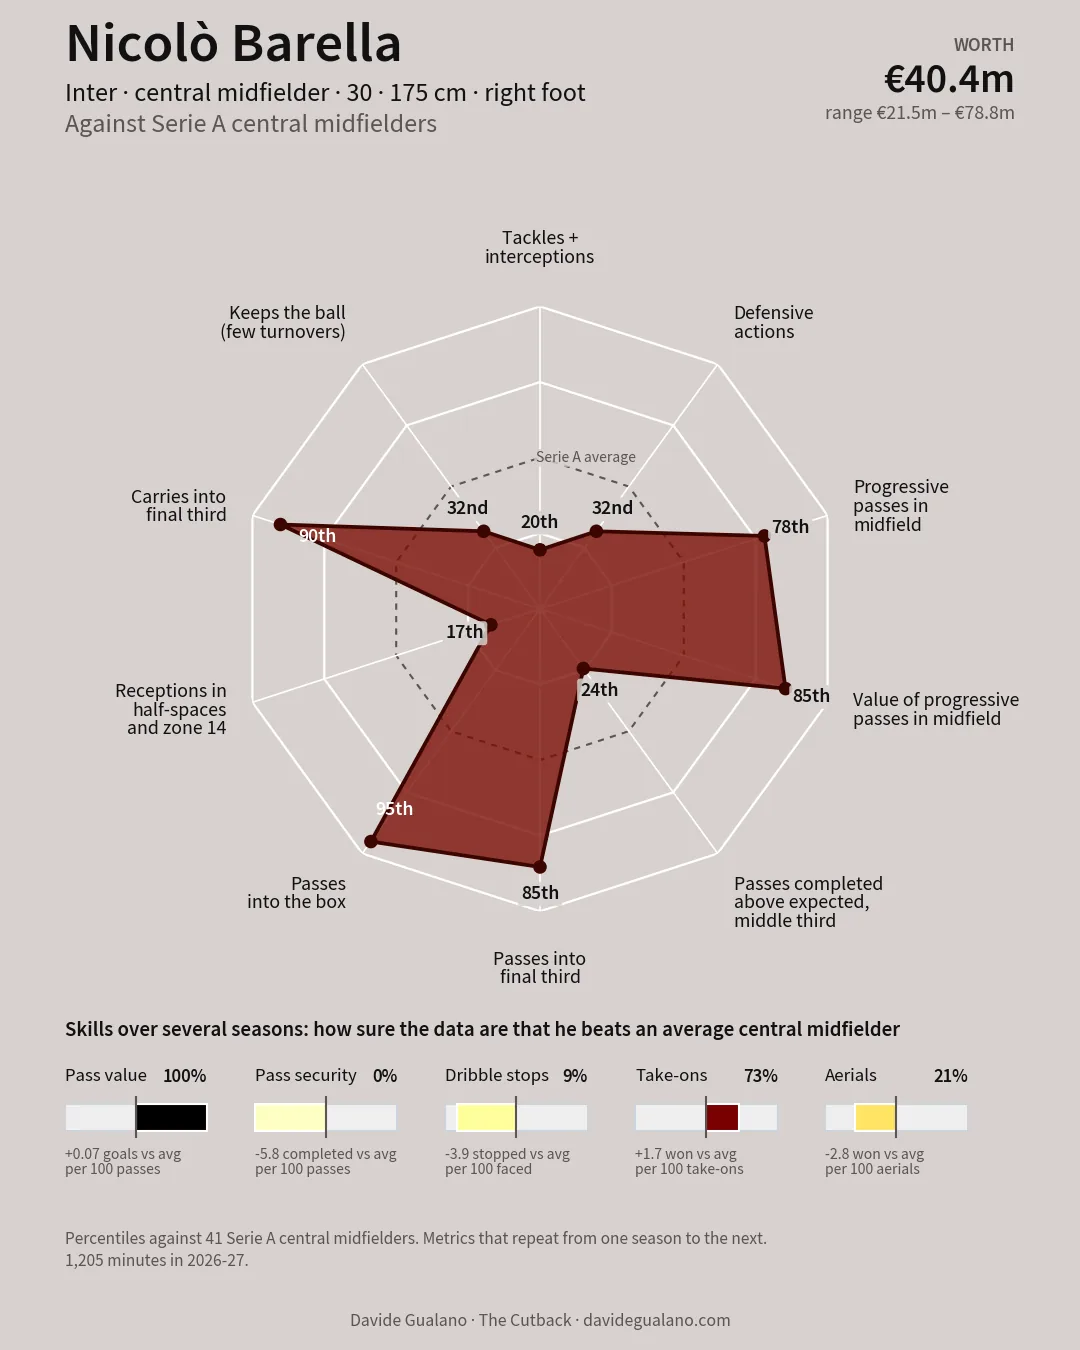
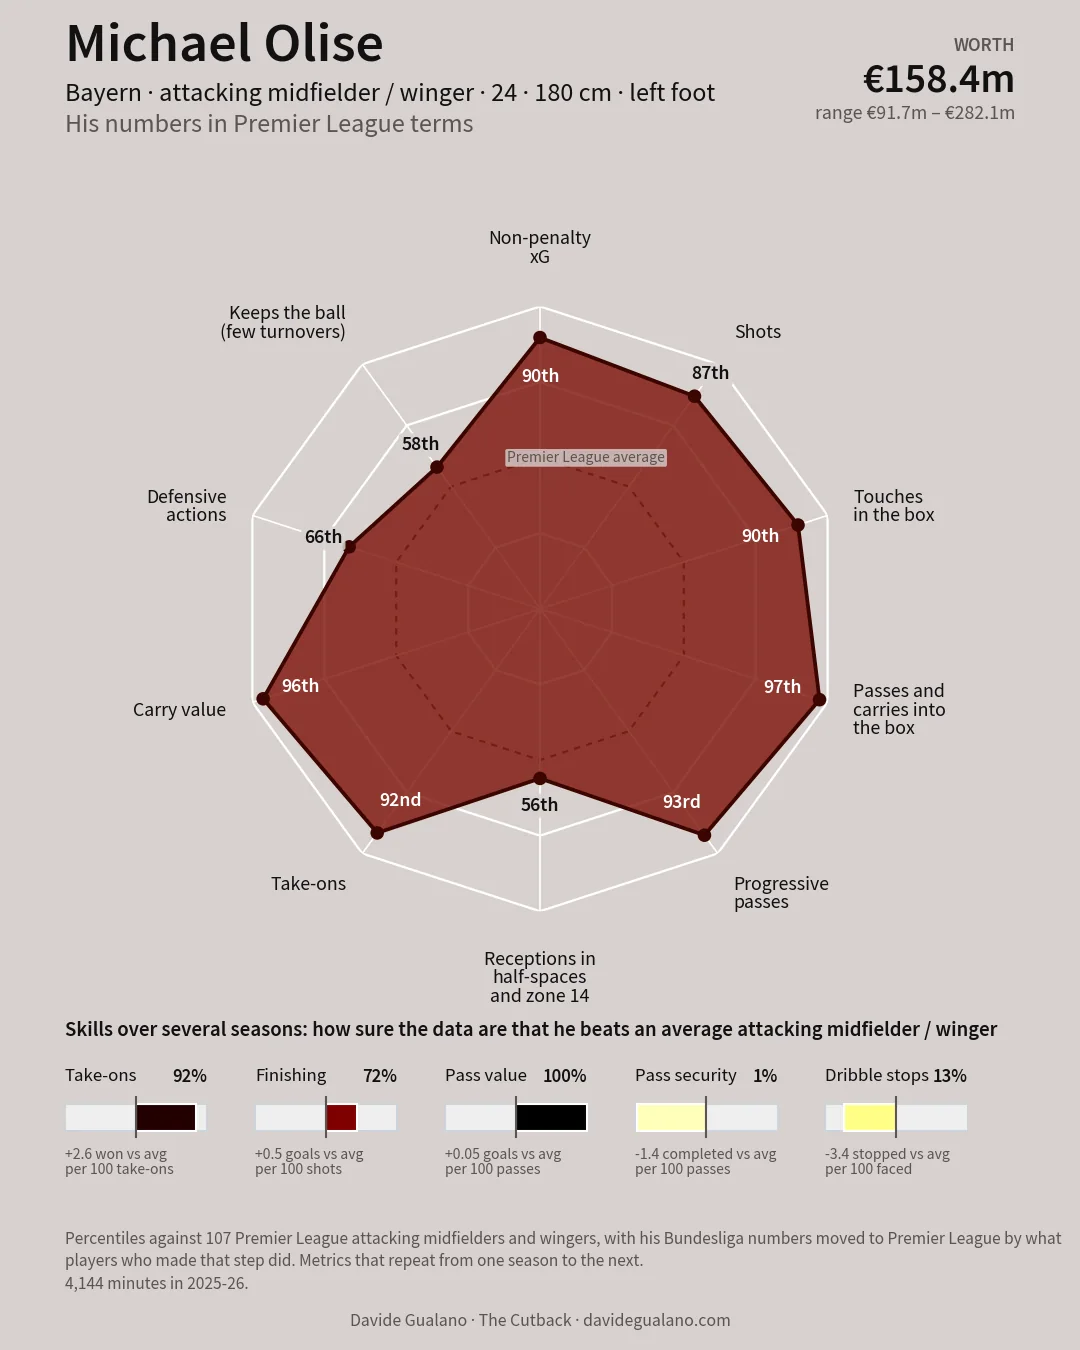
Reel: my seven graphics

diff --git a/index.html b/index.html
@@ -22,7 +22,7 @@
 <script type="application/ld+json">
 {"@context":"https://schema.org","@type":"Person","name":"Davide Gualano","jobTitle":"Football data analyst","url":"https://davidegualano.com/","email":"mailto:davide@davidegualano.com","address":{"@type":"PostalAddress","addressLocality":"Turin","addressCountry":"IT"},"sameAs":["https://www.linkedin.com/in/davide-gualano-a2454b187","https://x.com/gualanodavide","https://bsky.app/profile/gualanodavide.bsky.social","https://the-cutback.beehiiv.com/"]}
 </script>
-<link rel="stylesheet" href="style.css?v=20261112f">
+<link rel="stylesheet" href="style.css?v=20261112g">
 </head>
 <body>
 
@@ -317,15 +317,16 @@
     <p><strong>Commissioned analysis piece</strong>, from €150. <strong>Graphics</strong>, €25 each.</p>
     <a class="btn btn-line" href="mailto:davide@davidegualano.com?subject=Media%20quote">Ask for a quote</a>
   </div>
-  <div class="reel" aria-roledescription="carousel" aria-label="Graphics I make: six examples">
+  <div class="reel" aria-roledescription="carousel" aria-label="Graphics I make: seven examples">
     <div class="reel-view" tabindex="0">
       <ul class="reel-track">
-        <li><figure><img src="images/viz/player-card.webp" alt="Player card: a radar of a central midfielder's season against his league, with his skills over several seasons and his worth" loading="lazy" width="1080" height="1350"><figcaption>A player in one image, for a post or a preview.</figcaption></figure></li>
-        <li><figure><img src="images/viz/serie-a-strip.webp" alt="Serie A teams placed on a strip from weakest to strongest by expected goal difference per match" loading="lazy" width="1600" height="540"><figcaption>Where every Serie A team stands, from my xG ratings.</figcaption></figure></li>
-        <li><figure><img src="images/viz/squad-depth.webp" alt="A squad laid out on a pitch by position, with each player's age, minutes, rating and price" loading="lazy" width="1072" height="1600"><figcaption>Squad depth: who plays where, how much, and at what level.</figcaption></figure></li>
-        <li><figure><img src="images/viz/age-profile.webp" alt="A squad's players plotted by age against the peak years of their role" loading="lazy" width="1478" height="1600"><figcaption>A squad's age profile against each role's peak years.</figcaption></figure></li>
-        <li><figure><img src="images/viz/championship-competitiveness.webp" alt="Championship teams rated by a Dixon-Coles xG model, shown as a strip from weakest to strongest" loading="lazy" width="1800" height="631"><figcaption>How competitive a league is, in one strip.</figcaption></figure></li>
-        <li><figure><img src="images/viz/team-dashboard.webp" alt="A team dashboard: every phase of play as a row of percentiles against the league" loading="lazy" width="1600" height="1344"><figcaption>A team's season on one page.</figcaption></figure></li>
+        <li><figure><img src="images/viz/heatmap.webp" alt="Heatmap on a full pitch: where a midfielder is on the ball, as a share of his team's actions" loading="lazy" width="1800" height="1358"><figcaption>Heatmap: where a player takes the ball, against his own team.</figcaption></figure></li>
+        <li><figure><img src="images/viz/player-card.webp" alt="Player card: a radar of an attacking midfielder's season in another league's terms, his skills over several seasons and his worth" loading="lazy" width="1080" height="1350"><figcaption>A player in one image, for a post or a preview.</figcaption></figure></li>
+        <li><figure><img src="images/viz/shot-placement.webp" alt="The goal seen from the front, with every shot a goalkeeper faced placed where it arrived: goals as circles, saves as crosses" loading="lazy" width="1800" height="781"><figcaption>Shot placement: every shot a keeper faced, goals and saves.</figcaption></figure></li>
+        <li><figure><img src="images/viz/cross-zones.webp" alt="Small pitches, one per starting zone, showing where a team's open-play crosses start and end" loading="lazy" width="1800" height="671"><figcaption>Where a team's open-play crosses start, zone by zone.</figcaption></figure></li>
+        <li><figure><img src="images/viz/reception-spots.webp" alt="A pitch with each player of a team placed at the average spot where he receives the ball" loading="lazy" width="1800" height="1423"><figcaption>A team's shape from where each player receives the ball.</figcaption></figure></li>
+        <li><figure><img src="images/viz/progressive-actions.webp" alt="A pitch with one midfielder's progressive passes, carries and receptions drawn as arrows and dots" loading="lazy" width="1800" height="1423"><figcaption>One player's progressive passes, carries and receptions.</figcaption></figure></li>
+        <li><figure><img src="images/viz/competitiveness.webp" alt="La Liga teams placed on a strip from weakest to strongest by expected goal difference per match" loading="lazy" width="1800" height="607"><figcaption>How competitive a league is, in one strip.</figcaption></figure></li>
       </ul>
     </div>
     <p class="reel-hint"><button type="button" class="reel-btn" data-reel="prev" aria-label="Previous graphic">←</button><button type="button" class="reel-btn" data-reel="toggle" aria-label="Pause the carousel">Pause</button><button type="button" class="reel-btn" data-reel="next" aria-label="Next graphic">→</button><span class="reel-tip">It turns by itself. Swipe sideways on the trackpad to push it, stop it or send it back. All personal projects.</span></p>
@@ -402,6 +403,6 @@
   <p><a href="https://www.linkedin.com/in/davide-gualano-a2454b187">LinkedIn</a> <a href="https://x.com/gualanodavide">X</a> <a href="https://bsky.app/profile/gualanodavide.bsky.social">Bluesky</a> <a href="https://the-cutback.beehiiv.com/">The Cutback</a></p>
 </footer>
 
-<script src="script.js?v=20261112f" defer></script>
+<script src="script.js?v=20261112g" defer></script>
 </body>
 </html>

diff --git a/method.html b/method.html
@@ -19,7 +19,7 @@
 <meta name="theme-color" content="#D7D1CF">
 <link rel="preload" href="fonts/archivo.woff2" as="font" type="font/woff2" crossorigin>
 <link rel="preload" href="fonts/source-sans-3.woff2" as="font" type="font/woff2" crossorigin>
-<link rel="stylesheet" href="style.css?v=20261112f">
+<link rel="stylesheet" href="style.css?v=20261112g">
 </head>
 <body>
 
@@ -76,6 +76,6 @@
   <p><a href="https://www.linkedin.com/in/davide-gualano-a2454b187">LinkedIn</a> <a href="https://x.com/gualanodavide">X</a> <a href="https://bsky.app/profile/gualanodavide.bsky.social">Bluesky</a> <a href="https://the-cutback.beehiiv.com/">The Cutback</a></p>
 </footer>
 
-<script src="script.js?v=20261112f" defer></script>
+<script src="script.js?v=20261112g" defer></script>
 </body>
 </html>
